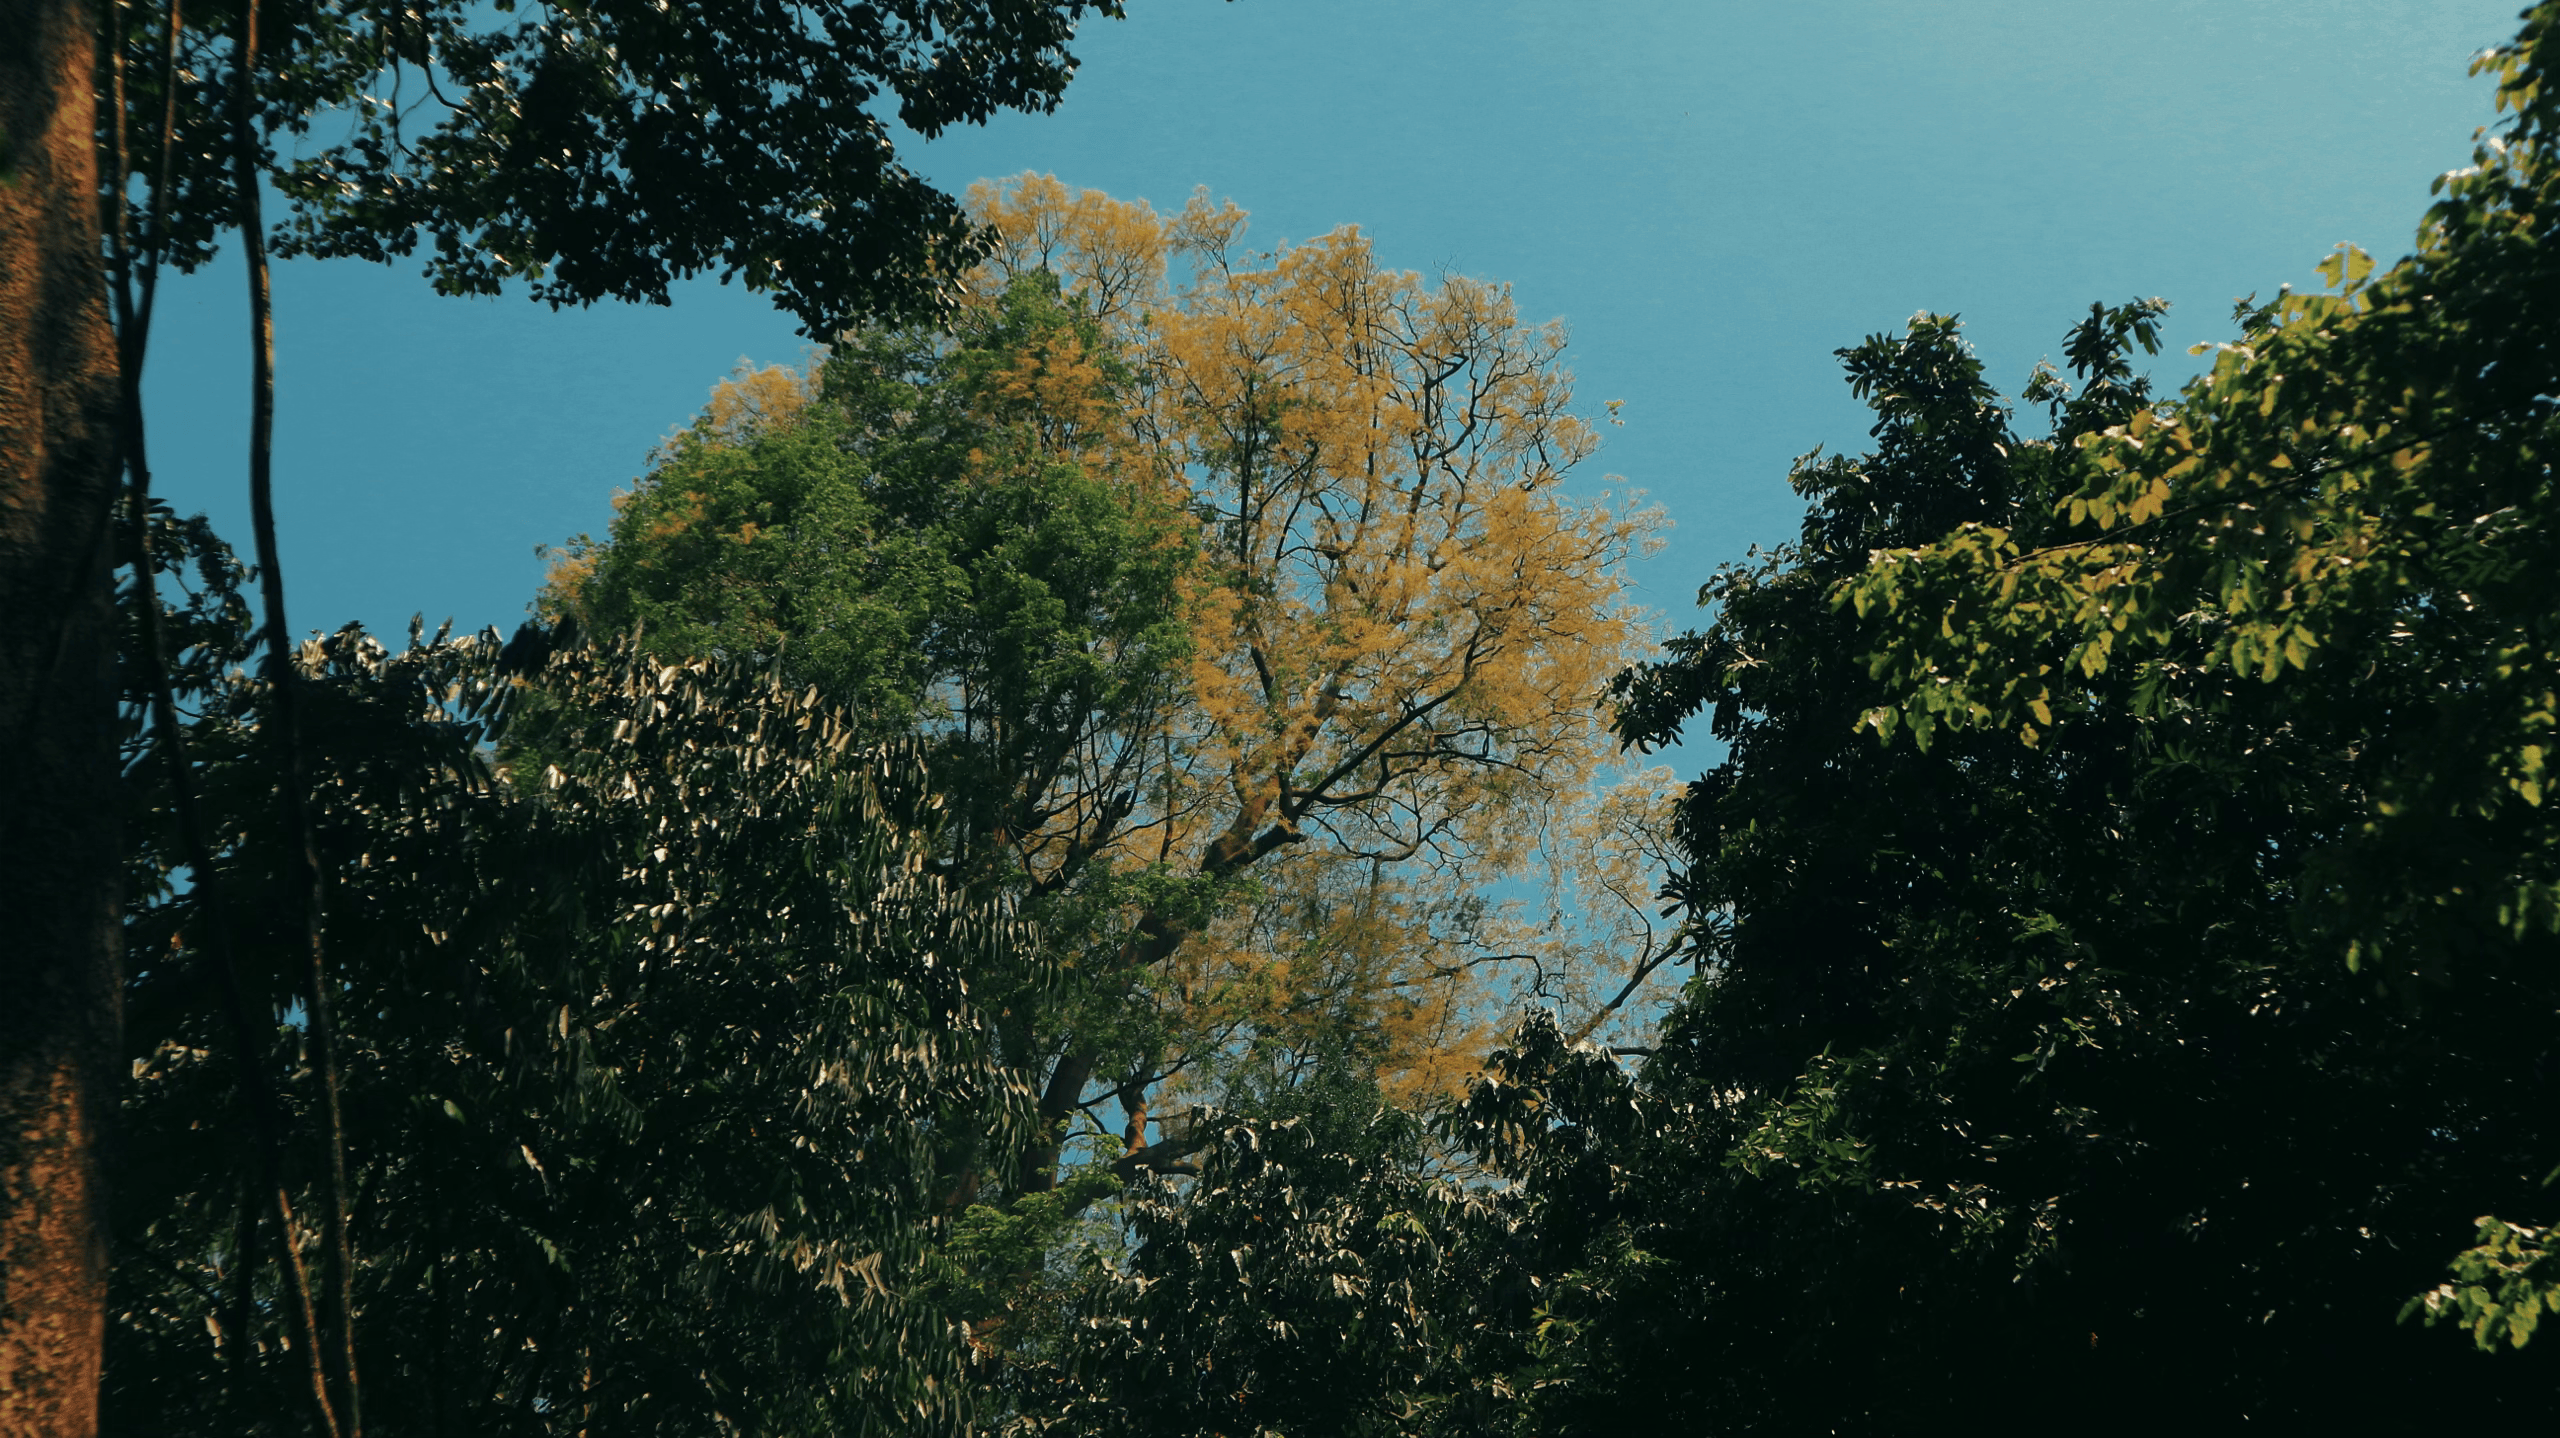
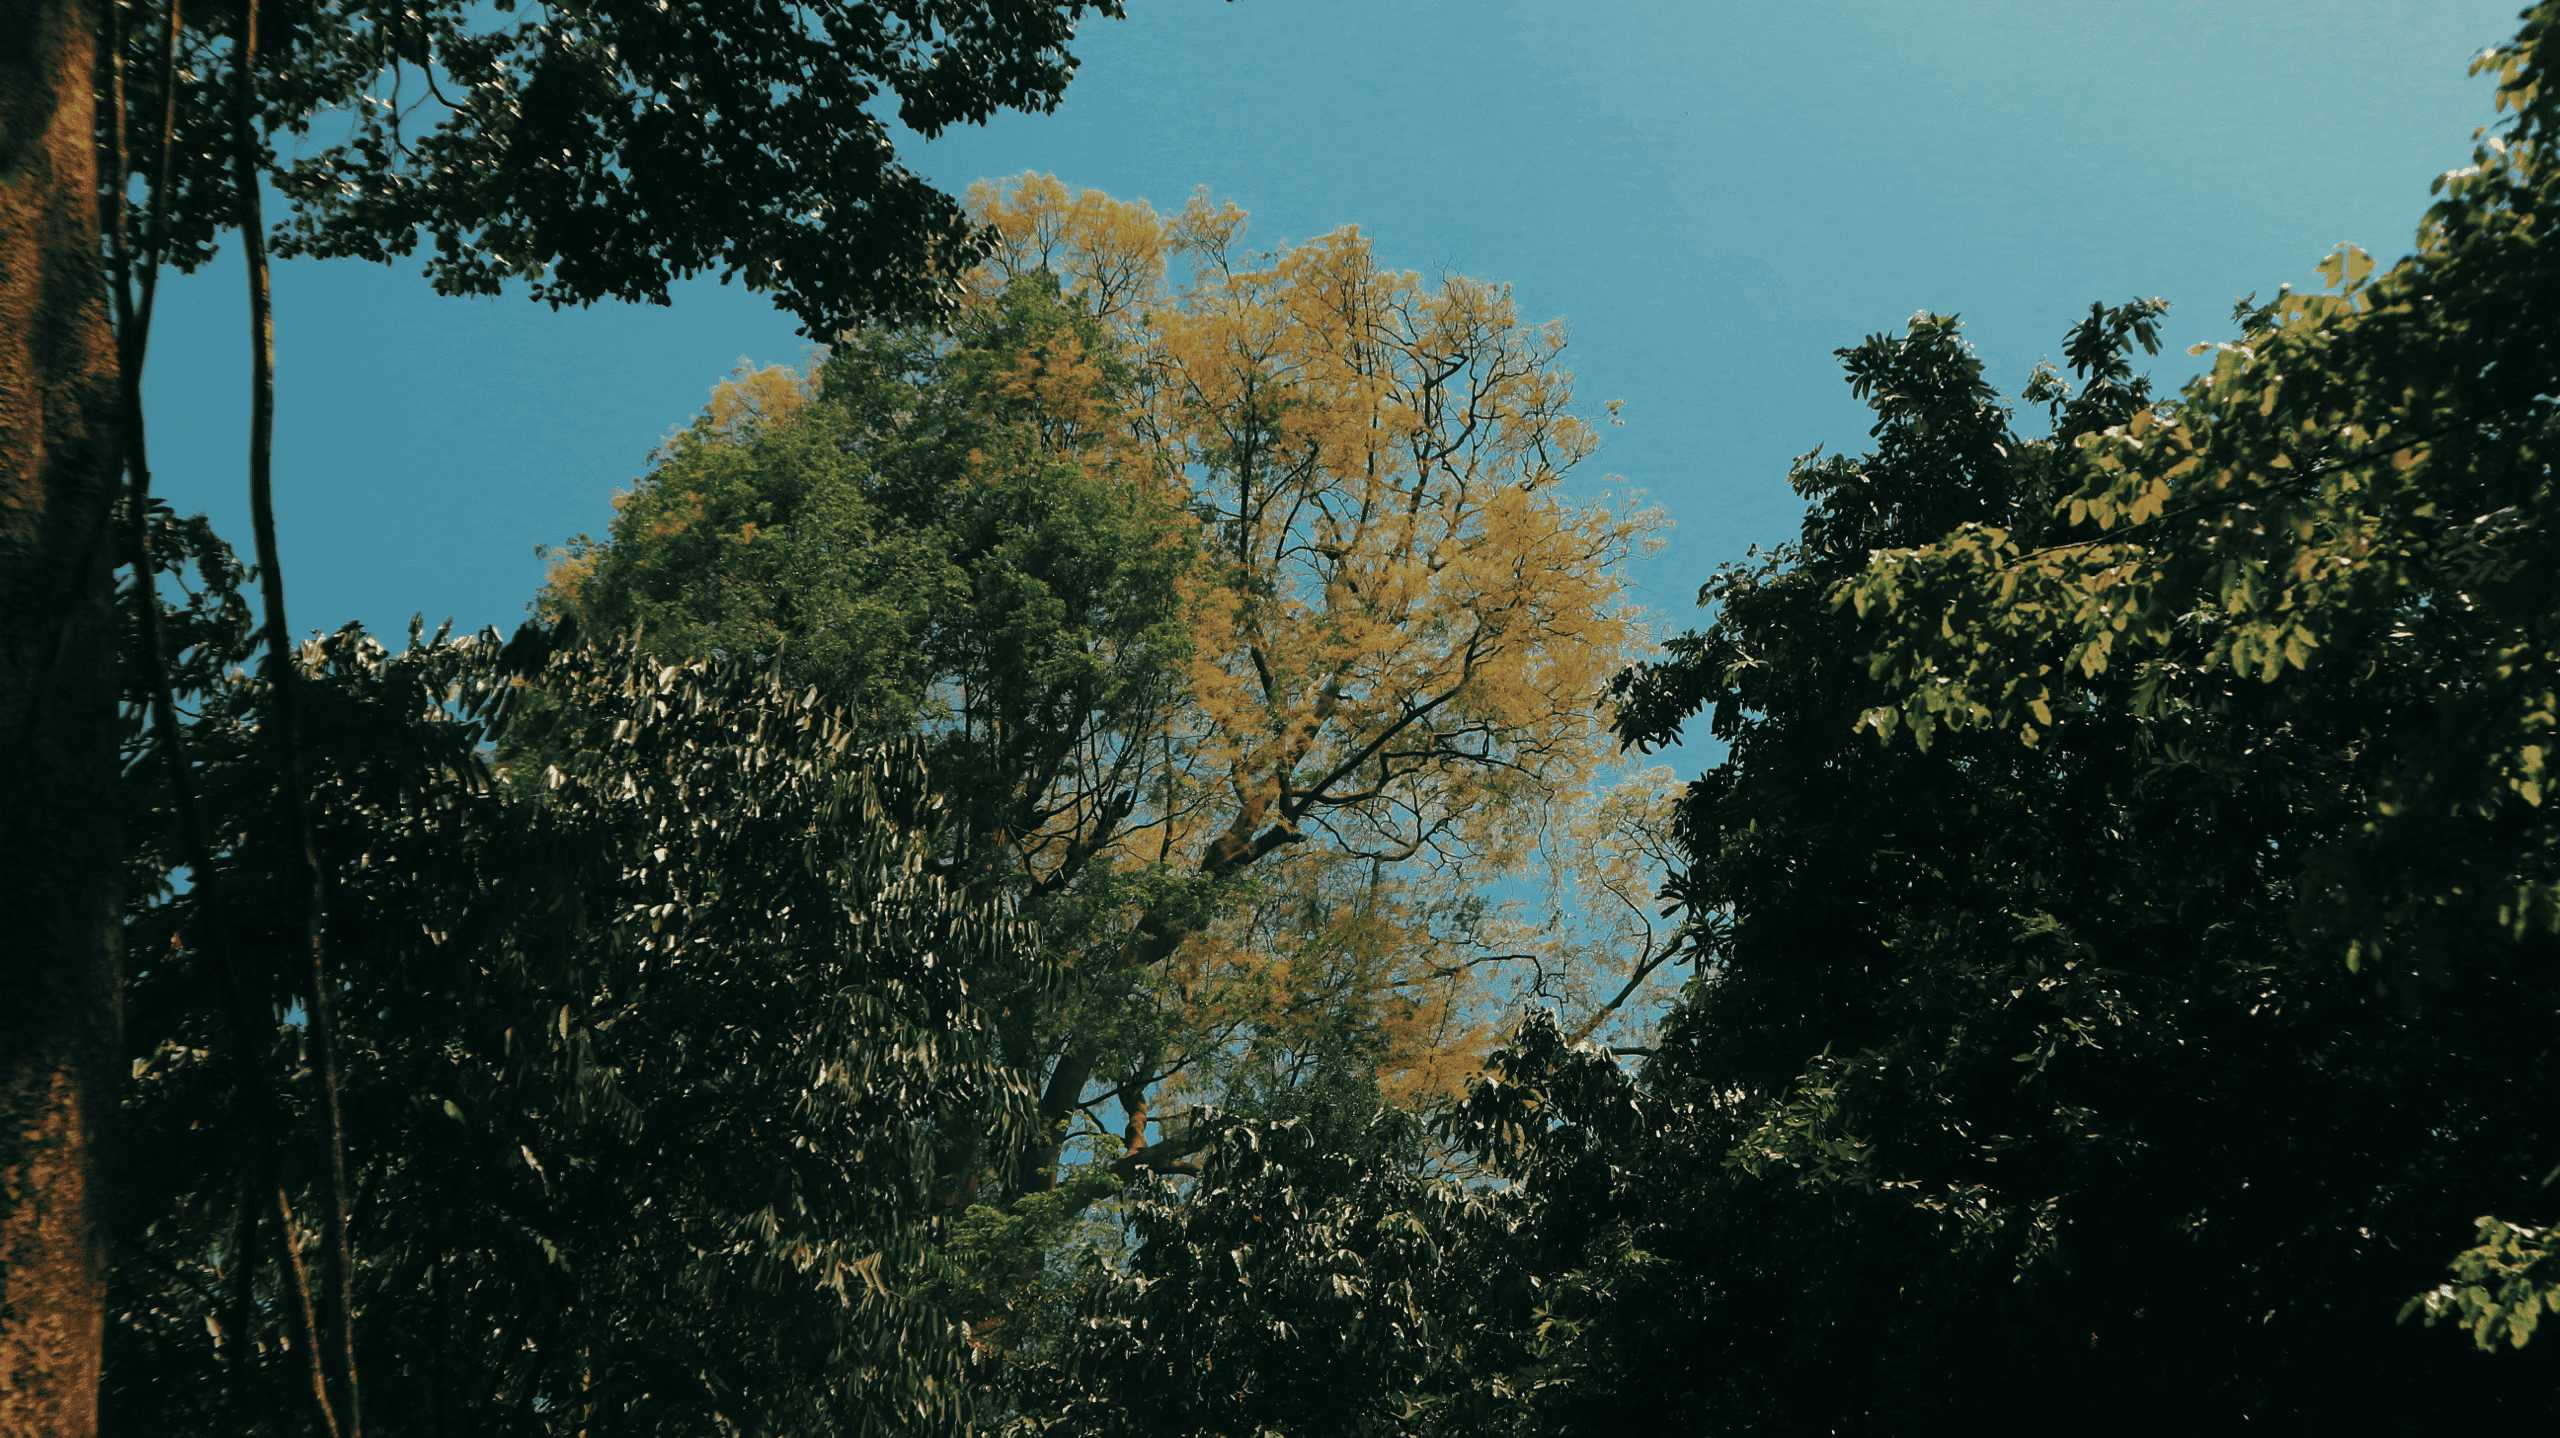
Add files via upload

diff --git a/script.js b/script.js
@@ -106,43 +106,78 @@ const portfolioData = {
     ],
     photography: [
         {
-            id: "PH-2023-001",
-            title: "Building Forms",
+            id: "PH-2026-001",
+            title: "Architectural Obscura",
             description: "A series exploring architectural minimalism through light and shadow. Each photograph captures the essential forms of brutalist and modernist structures.",
-            images: ["BUILDING.png"],
-            date: "October 2023",
+            images: [
+                "ARCH.png",
+                "ARCH2.png",
+                "ARCH3.png",
+                "ARCH4.png",
+                "ARCH5.png"
+            ],
+            date: "April 2026",
             category: "Architecture",
-            type: "Photographic Series",
+            type: "Building Scapes",
             featured: false
         },
         {
-            id: "PH-2023-002",
-            title: "Night Holes",
+            id: "PH-2026-002",
+            title: "Unconceptual Realities",
             description: "Photographic studies of emptiness and presence. This series explores how negative space defines form, using vast landscapes and intimate interiors.",
-            images: ["HOLE.png"],
-            date: "August 2023",
-            category: "Conceptual",
-            type: "Visual Study",
+            images: [
+                "UNC.png",
+                "UNC2.png",
+                "UNC3.png",
+                "UNC4.png",
+                "UNC5.png",
+                "UNC6.png"
+            ],
+            date: "April 2026",
+            category: "Unconceptual",
+            type: "Unconceptual Explorations",
             featured: false
         },
         {
-            id: "PH-2023-003",
+            id: "PH-2026-003",
             title: "Nature's Essence",
             description: "Minimalist portraits that focus on essential human expression. Stripped of color and context, these images reveal the universal language of emotion.",
-            images: ["NATURE.png"],
-            date: "June 2023",
+            images: [
+                "NATURE.png",
+                "NATURE2.png",
+                "NATURE3.png",
+                "NATURE4.png",
+                "NATURE5.png",
+                "NATURE6.png",
+                "NATURE7.png",
+                "NATURE8.png",
+                "NATURE9.png"
+            ],
+            date: "April 2026",
             category: "Nature",
-            type: "Portrait Series",
+            type: "Nature Wonders",
             featured: false
         },
         {
-            id: "PH-2023-004",
-            title: "The Grandeur",
-            description: "An exploration of pattern and repetition in the built environment. This series finds mathematical beauty in everyday urban scenes.",
-            images: ["GRANDE.png"],
-            date: "April 2023",
-            category: "Urban",
-            type: "Documentary Series",
+            id: "PH-2026-004",
+            title: "Human Void",
+            description: "An exploration of a necessary space for atoms to move, thereby enabling the existence of matter.",
+            images: [
+                "HUMAN.png",
+                "HUMAN2.png",
+                "HUMAN3.png",
+                "HUMAN4.png",
+                "HUMAN5.png",
+                "HUMAN6.png",
+                "HUMAN7.png",
+                "HUMAN8.png",
+                "HUMAN9.png",
+                "HUMAN10.png",
+                "HUMAN11.png"
+            ],
+            date: "April 2026",
+            category: "Human",
+            type: "The Void",
             featured: false
         }
     ],
@@ -492,6 +527,18 @@ class Portfolio {
         return el;
     }
 
+    getFallback(index) {
+        const fallbacks = [
+            'https://images.unsplash.com/photo-1486312338219-ce68d2c6f44d?auto=format&fit=crop&w=800&q=80',
+            'https://images.unsplash.com/photo-1497366216548-37526070297c?auto=format&fit=crop&w=800&q=80',
+            'https://images.unsplash.com/photo-1518780664697-55e3ad937233?auto=format&fit=crop&w=800&q=80',
+            'https://images.unsplash.com/photo-1470071459604-3b5ec3a7fe05?auto=format&fit=crop&w=800&q=80',
+            'https://images.unsplash.com/photo-1449034446853-66c86144b0ad?auto=format&fit=crop&w=800&q=80',
+            'https://images.unsplash.com/photo-1477959858617-67f85cf4f1df?auto=format&fit=crop&w=800&q=80',
+        ];
+        return fallbacks[(index || 0) % fallbacks.length];
+    }
+
     createCard(item, category) {
         const el = document.createElement('div');
         el.className = 'gallery-item';
@@ -500,7 +547,8 @@ class Portfolio {
 
         const imgSrc = item.images[0];
         const isLocal = !imgSrc.startsWith('http');
-        const fallback = 'https://images.unsplash.com/photo-1486312338219-ce68d2c6f44d?auto=format&fit=crop&w=800&q=80';
+        const fallback = this.getFallback(0);
+        const photoCount = item.images.length;
 
         el.innerHTML = `
             <div class="item-image-container">
@@ -518,6 +566,7 @@ class Portfolio {
                     <div class="item-title">${item.title}</div>
                     <div class="item-date">${item.date}</div>
                 </div>
+                ${photoCount > 1 ? `<div class="item-photo-count"><i class="fas fa-images"></i> ${photoCount}</div>` : ''}
                 <div class="item-view"><i class="fas fa-arrow-up-right-from-square"></i></div>
             </div>
         `;
@@ -573,7 +622,7 @@ class Portfolio {
             if (isLocal) {
                 modalImage.onerror = () => {
                     modalImage.onerror = null;
-                    modalImage.src = 'https://images.unsplash.com/photo-1486312338219-ce68d2c6f44d?auto=format&fit=crop&w=1600&q=80';
+                    modalImage.src = this.getFallback(0);
                 };
             }
             modalImage.alt = item.title;
@@ -584,9 +633,15 @@ class Portfolio {
                 const thumb = document.createElement('div');
                 thumb.className = `modal-gallery-item${i === 0 ? ' active' : ''}`;
                 const isL = !src.startsWith('http');
-                thumb.innerHTML = `<img src="${src}" alt="${item.title}" loading="lazy" ${isL ? `onerror="this.onerror=null;this.src='https://images.unsplash.com/photo-1486312338219-ce68d2c6f44d?auto=format&fit=crop&w=200&q=60'"` : ''}>`;
+                const fbThumb = this.getFallback(i);
+                const fbMain  = this.getFallback(i);
+                thumb.innerHTML = `<img src="${src}" alt="${item.title} — Photo ${i + 1}" loading="lazy" ${isL ? `onerror="this.onerror=null;this.src='${fbThumb}'"` : ''}>`;
                 thumb.addEventListener('click', () => {
-                    document.getElementById('modalImage').src = src;
+                    const mainImg = document.getElementById('modalImage');
+                    mainImg.src = src;
+                    if (isL) {
+                        mainImg.onerror = () => { mainImg.onerror = null; mainImg.src = fbMain; };
+                    }
                     gallery.querySelectorAll('.modal-gallery-item').forEach(t => t.classList.remove('active'));
                     thumb.classList.add('active');
                 });

diff --git a/style.css b/style.css
@@ -581,6 +581,21 @@ body.light-mode .filter-select { background-color: var(--bg); }
 .item-title { font-family: var(--font-display); font-size: 26px; font-weight: 300; line-height: 1.2; margin-bottom: 8px; color: var(--white); }
 .item-date { font-family: var(--font-mono); font-size: 9px; letter-spacing: 3px; color: var(--gray-a); }
 
+
+/* Photo count badge */
+.item-photo-count {
+    position: absolute; bottom: 56px; right: 16px; z-index: 3;
+    display: flex; align-items: center; gap: 5px;
+    background: rgba(8,8,8,0.55); backdrop-filter: blur(6px);
+    border: 1px solid rgba(245,245,240,0.18); border-radius: 20px;
+    padding: 4px 10px; font-family: var(--font-mono); font-size: 10px;
+    color: rgba(245,245,240,0.85); letter-spacing: 0.06em;
+    opacity: 0; transform: translateY(4px);
+    transition: opacity 0.35s, transform 0.35s var(--ease-expo);
+}
+.gallery-item:hover .item-photo-count { opacity: 1; transform: translateY(0); }
+@media (hover: none) { .item-photo-count { opacity: 1; transform: translateY(0); } }
+
 .item-view {
     position: absolute; top: 20px; right: 20px; z-index: 3;
     width: 40px; height: 40px; border: 1px solid rgba(245,245,240,0.25); border-radius: 50%;